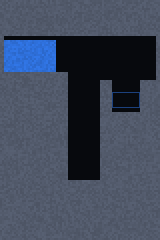
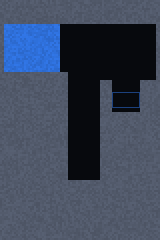
fix(spill): 2-3 물량 늘려 이웃 판자 허용·par 4.1s (spill:verify ALL PASS)
1칸 틈 판자는 새지만 느리게 클리어(par 밖) → neighbor-60 2/3.
dev를 최속 해(판자 한 칸 더 건너편)로, par.secs 4.1. 공략 수치 재실측 반영.

Claude-Session: https://claude.ai/code/session_019f3RTy2AVDymT2kUFv6KxQ

Changed region(s): [[0.0, 0.0875, 1.0, 0.3208]]

diff --git a/src/content/guides/w2.ts b/src/content/guides/w2.ts
@@ -90,7 +90,7 @@ export const W2_GUIDES: LevelGuide[] = [
   {
     id: '2-3',
     title: '2-3 Plank Bridge guide: lay one plank across the pit, high and level',
-    description: 'Sandlab Spill 2-3 Plank Bridge solved: span the whole pit with one level plank just under the ledge. Why slopes, short planks and deep bridges fail.',
+    description: 'Sandlab Spill 2-3 Plank Bridge solved: span the whole pit with one level plank just under the ledge. Why slopes, gaps and deep bridges cost you.',
     published: D3,
     updated: D3,
     lesson: 'Planks are solid ground before they are fuel: a level plank that spans a gap carries water like stone would.',
@@ -98,29 +98,29 @@ export const W2_GUIDES: LevelGuide[] = [
       {
         heading: 'Quick solution',
         paragraphs: [
-          'Drag your single plank flat across the full width of the pit, one row below the top of the left ledge, touching stone on both sides. Water rolls off the ledge, runs over your bridge, drops onto the lower right shelf and pours into the pot. Our fastest run finished in 3.8 seconds this way. Nothing burns in this level; there is no spark at all.',
-          'Plank Bridge is the third stage of world two. A wide pool rests on a ledge at the upper left. Where the ledge stops, a pit eight tiles wide falls away into the dark. On the far side, a little lower than the ledge, a stone shelf holds a deep pot. Without help the pool simply empties down the hole and the run is called stuck after about twelve seconds.',
+          'Drag your single plank flat across the full width of the pit, one row below the top of the left ledge, and let it rest one square onto the far shelf. Water rolls off the ledge, runs over your bridge, drops onto the lower right shelf and pours into the pot. That placement was the fastest we found, 3.5 seconds. Nothing burns in this level; there is no spark at all.',
+          'Plank Bridge is the third stage of world two. A tall pool rests on a ledge at the upper left. Where the ledge stops, a pit eight tiles wide falls away into the dark. On the far side, a little lower than the ledge, a stone shelf holds a deep pot. Without help the pool simply empties down the hole and the run is called stuck after roughly fifteen and a half seconds.',
         ],
       },
       {
-        heading: 'Wall to wall, or it leaks',
+        heading: 'Close the gap completely',
         paragraphs: [
-          'The plank must close the gap completely. We tried every flat plank inside the pit, 293 placements of different lengths and heights, and only 18 of them cleared. Every winner began at the lip of the ledge and ended against the far side. Begin one column too far right and a thin stream slips through the crack beside the stone, the bridge stays dry, and so does the pot.',
-          'Slopes are a trap too. A plank drawn at forty five degrees, either rising or falling, is built from stepped squares, and water finds the corners between them. Both slanted bridges we measured lost everything into the pit.',
+          'We tried every flat plank inside the pit, 293 placements of different lengths and heights, and 35 of them cleared. The quick ones all began at the lip of the ledge and reached the far side with no crack at either end. Leave a one square opening and a thin stream pours through it the whole time. The pot still fills in the end, but those runs took between seven and a half and twelve and a half seconds, far beyond par.',
+          'Slopes are a trap. A plank drawn at forty five degrees, rising or falling, is built from stepped squares, and water slips through the corners between them. All four slanted bridges we measured lost the pool into the pit.',
         ],
       },
       {
         heading: 'Height decides the clock',
         paragraphs: [
-          'Any level, full width plank from the ledge row down to roughly nine rows below it will clear, but the time changes a lot. Lower bridges turn the pit into a basin that has to fill before water can spill over the far lip. One row under the ledge took about four seconds. Five rows deeper took near seven, and the deepest working row needed over nine.',
-          'Go one row further and the pool runs out before the basin is full. The water just sits on your plank and the run stalls.',
-          'Placed exactly level with the ledge top, the bridge works but is slower than one row lower, close to six seconds, because water piles at the joint before it moves on.',
+          'A level, full width plank works anywhere from the ledge row down to about seventeen rows below it, but the time climbs steadily with depth. A low bridge turns the pit into a basin that must fill before water can spill over the far lip. One or two rows under the ledge took 3.8 seconds. Six rows under the ledge took close to six, ten rows under near eight, and the deepest working row needed over thirteen.',
+          'Below that the pool runs out before the basin is full. Water just sits on your plank, nothing reaches the pot, and the run stalls.',
+          'Placed exactly level with the ledge top, the bridge works but is slower than one row lower, about 4.7 seconds, because water piles at the joint before it moves on.',
         ],
       },
       {
         heading: 'Chasing the par time',
         paragraphs: [
-          'Par for this stage is one move. For the full score you also need to beat the par time, and only the top two working rows do it. Stretching the plank one or two squares past the pit onto the far shelf shaves a little more, since water lands further along and slides straight down. If your bridge clears but feels sluggish, raise it a row and run it again.',
+          'Par for this stage is one move. For the full score you also need to beat the par time, and only bridges one or two rows below the ledge top do it. Stretching the plank one square past the pit onto the far shelf shaves a little more, since water lands further along and slides straight down. If your bridge clears but feels sluggish, check both ends for a crack, raise it a row, and run it again.',
         ],
       },
     ],

diff --git a/src/lib/spill/levels/levels.test.ts b/src/lib/spill/levels/levels.test.ts
@@ -115,10 +115,12 @@ describe('W1 Flow levels', () => {
       expect(r.ticks).toBeLessThanOrEqual(parTicks(l.par!.secs))
       expect(simulate(l, []).reason).toBe('stalled')
     })
-    it('a bridge with a gap, a slope or too deep in the pit fails', () => {
-      expect(simulate(l, [plank(18, 20, 24, 20)]).outcome).toBe('failed')
+    it('a slope or a bridge too deep in the pit fails; a gap at the ledge leaks and misses par', () => {
       expect(simulate(l, [plank(17, 18, 24, 25)]).outcome).toBe('failed')
-      expect(simulate(l, [plank(17, 28, 24, 28)]).outcome).toBe('failed')
+      expect(simulate(l, [plank(17, 25, 24, 18)]).outcome).toBe('failed')
+      expect(simulate(l, [plank(17, 36, 24, 36)]).outcome).toBe('failed')
+      const gap = simulate(l, [plank(18, 20, 24, 20)])
+      expect(gap.ticks).toBeGreaterThan(parTicks(l.par!.secs))
     })
     it('a level wall-to-wall bridge clears from several rows, slower when deeper', () => {
       const hi = simulate(l, [plank(17, 20, 24, 20)])

diff --git a/src/lib/spill/levels/w2/plank-bridge.ts b/src/lib/spill/levels/w2/plank-bridge.ts
@@ -6,8 +6,8 @@ export default defineLevel({
   id: '2-3', v: 1, world: 2, name: 'Plank Bridge', salt: 0x2a03,
   legend: W2_LEGEND,
   map: frame((c) => {
-    c.tile(1, 1, 38, 8, '#')
-    c.tile(1, 10, 13, 8, 'w')
+    c.tile(1, 1, 38, 5, '#')
+    c.tile(1, 6, 14, 12, 'w')
     c.tile(17, 45, 8, 14, '#')
     c.tile(1, 18, 16, 41, '#')
     c.tile(25, 20, 14, 39, '#')
@@ -17,7 +17,7 @@ export default defineLevel({
   gems: [],
   verbs: { line: { mat: 'plank', maxLen: 10, charges: 1 } },
   legalTiles: 'auto',
-  par: { moves: 1, secs: 4.6 },
-  dev: [[0, 'line', 17, 19, 24, 19, 'plank']],
+  par: { moves: 1, secs: 4.1 },
+  dev: [[0, 'line', 17, 19, 25, 19, 'plank']],
   hint: 'Water cannot jump. Build it a floor.',
 })

diff --git a/docs/daily/log.md b/docs/daily/log.md
@@ -25,4 +25,4 @@
 | 2026-11-26 (11시) | [S3 #126] 오늘의 레벨 2-2 Fuse(불꽃 1개·도화선 1줄로 판자 문 2개, Line 동사 첫 출시) + 공략 `/play/2-2/guide` 562단어 | /play/2-2, /play/2-2/guide, sitemap | spill:verify 2-2 PASS·불꽃 단독 276칸 전수 0클리어·explore 무작위 0%(441표본)·통로 수평 도화선 4.2% | 머지 +14일 공략 노출·2-2 start/clear |
 | 2026-11-26 (14시) | [S2] #112 2단계: 레벨 화면 11개(1-1~1-10·2-1)에 레벨 고유 노트(목표 장면·원리·막히는 지점 2~3개, `src/content/level-notes.ts`) | /play/<id> 11개 | `pnpm verify` 통과, 빌드 실측 `<main>` 194~282→309~400단어(전 11개 ≥300) | 측정 없음(색인 확인은 보강 뒤) |
 | 2026-11-27 (01시) | [S1·prepro] #104 관문 1 라운드 1 채점: 시안 A·B·C 160×240 격자 사본 + 독립 reviewer S1~S6 → 보류(5.5·6.2·5.3, 통과선 7/7.5) · r2 요청(B2·A2 pro + Gemini 혹평, ≈₩500) | 팀 문서(사용자 화면 변화 없음) | verify·격자 사본 채점 | 측정 없음(슬라이스 전) |
-| 2026-11-27 (11시) | [S3 #135] 오늘의 레벨 2-3 Plank Bridge(판자 1줄로 구덩이 건너기, 불 없음·Line 판자 첫 출시) + 공략 `/play/2-3/guide` 495단어 | /play/2-3, /play/2-3/guide, sitemap | spill:verify 2-3·explore 무작위 0%(11469후보 중 400표본)·구덩이 수평 판자 293개 전수 6.1%(18) | 머지 +14일 공략 노출·2-3 start/clear |
+| 2026-11-27 (11시) | [S3 #135] 오늘의 레벨 2-3 Plank Bridge(판자 1줄로 구덩이 건너기, 불 없음·Line 판자 첫 출시) + 공략 `/play/2-3/guide` 526단어 | /play/2-3, /play/2-3/guide, sitemap | spill:verify 2-3 ALL PASS·explore 무작위 0.5%(13363후보 중 400표본)·구덩이 수평 판자 293개 전수 11.9%(35) | 머지 +14일 공략 노출·2-3 start/clear |
